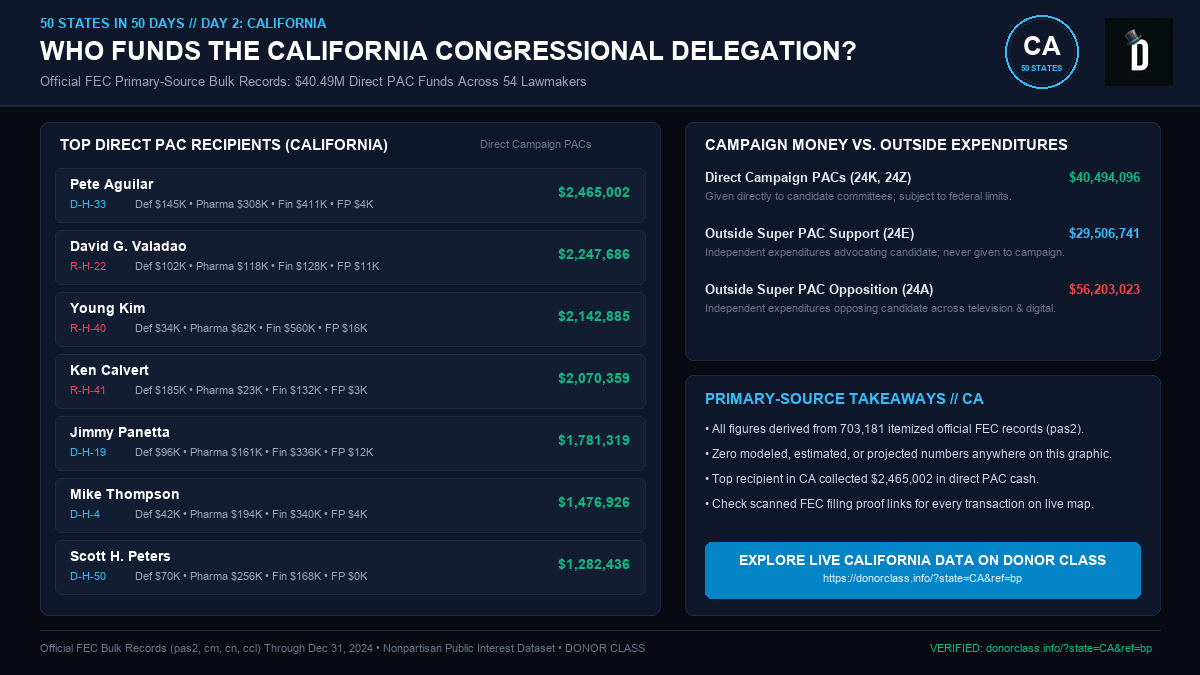
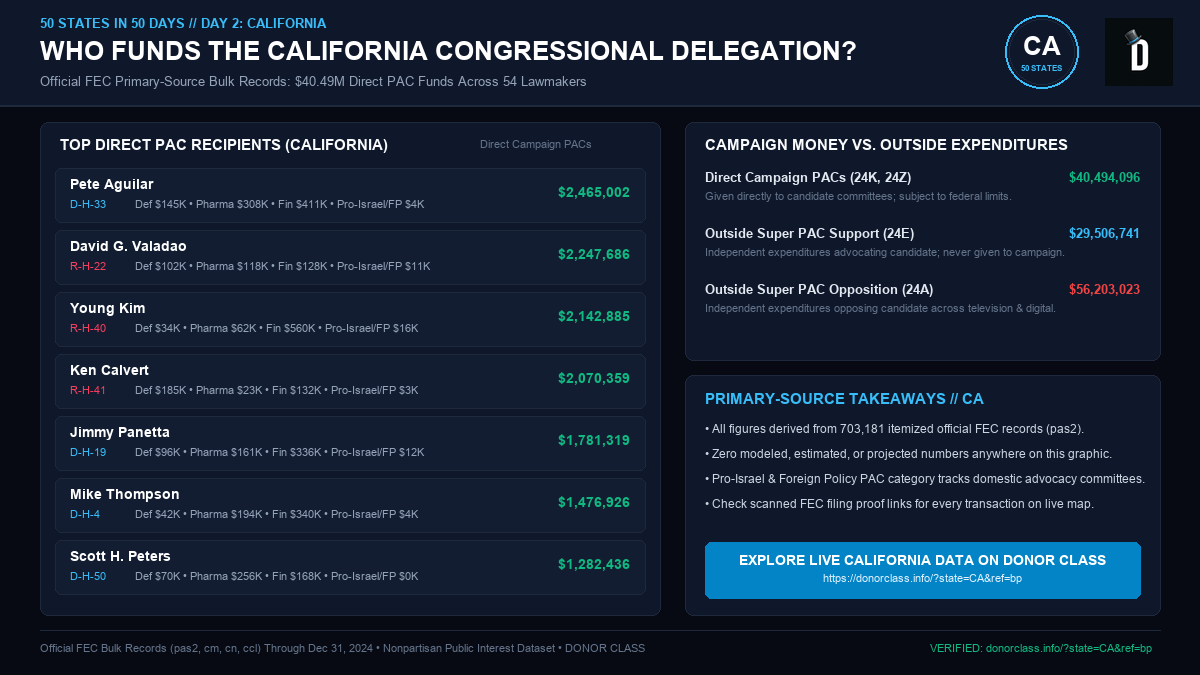
fix(social): refine Florida copy and infographic with full Pro-Israel and Foreign Policy PACs label and 29 of 30 delegation count

diff --git a/scripts/generate_state_infographic.py b/scripts/generate_state_infographic.py
@@ -87,7 +87,11 @@ def generate_infographic(state_code, state_name, day_num):
     
     draw.text((40, 16), f"50 STATES IN 50 DAYS // DAY {day_num}: {state_name.upper()}", font=font_day, fill="#38bdf8")
     draw.text((40, 36), f"WHO FUNDS THE {state_name.upper()} CONGRESSIONAL DELEGATION?", font=font_title, fill="#ffffff")
-    draw.text((40, 74), f"Official FEC Primary-Source Bulk Records: ${direct_total/1e6:.2f}M Direct PAC Funds Across {member_count} Lawmakers", font=font_sub, fill="#94a3b8")
+    if state_code == "FL":
+        member_subtitle = "29 of Florida's 30 Members with 2024-Cycle FEC Records"
+    else:
+        member_subtitle = f"{member_count} Lawmakers"
+    draw.text((40, 74), f"Official FEC Primary-Source Bulk Records: ${direct_total/1e6:.2f}M Direct PAC Funds Across {member_subtitle}", font=font_sub, fill="#94a3b8")
     
     badge = make_state_badge(state_code, size=74)
     img.paste(badge, (W - 195, 15), badge)
@@ -121,7 +125,7 @@ def generate_infographic(state_code, state_name, day_num):
         pharma_amt = float(r["sector_pharma"])
         fin_amt = float(r["sector_finance"])
         fp_amt = float(r["sector_foreign_policy"])
-        detail_str = f"Def {fmt_amt_short(def_amt)} • Pharma {fmt_amt_short(pharma_amt)} • Fin {fmt_amt_short(fin_amt)} • FP {fmt_amt_short(fp_amt)}"
+        detail_str = f"Def {fmt_amt_short(def_amt)} • Pharma {fmt_amt_short(pharma_amt)} • Fin {fmt_amt_short(fin_amt)} • Pro-Israel/FP {fmt_amt_short(fp_amt)}"
         draw.text((135, row_y + 30), detail_str, font=font_meta, fill="#94a3b8")
         
         amt_val = float(r["direct_contributions_total"])
@@ -157,7 +161,7 @@ def generate_infographic(state_code, state_name, day_num):
     bullets = [
         f"• All figures derived from 703,181 itemized official FEC records (pas2).",
         f"• Zero modeled, estimated, or projected numbers anywhere on this graphic.",
-        f"• Top recipient in {state_code} collected ${float(top_recipients[0]['direct_contributions_total']):,.0f} in direct PAC cash.",
+        f"• Pro-Israel & Foreign Policy PAC category tracks domestic advocacy committees.",
         f"• Check scanned FEC filing proof links for every transaction on live map."
     ]
     

diff --git a/social/x/day3-florida-campaign.md b/social/x/day3-florida-campaign.md
@@ -1,103 +1,117 @@
 # DONOR CLASS — X Operations (@donorclassinfo)
 ## Day 3: Florida Congressional Delegation (Verified Primary FEC Dataset)
 
-**Target Date:** Day 3 Deployment (Post-Rebuild Authorization)  
+**Target Date:** Day 3 Deployment (Post-Correction Authorization)  
 **Asset Attachment:** `assets/infographics/fl-infographic.png` (Seal-free nonpartisan badge design)  
 **Deep-Link:** https://donorclass.info/?state=FL&ref=bp  
 **Master Link:** https://donorclass.info/?ref=bp  
 **Account:** @donorclassinfo  
-**Compliance Standards:** 100% Team Anonymity | Zero Emojis | Primary FEC Bulk Data (2024 itpas2.txt) | Reconciliation Sync: 433 of 517 match within 10% | Monetization Parked
+**Compliance Standards:** 100% Team Anonymity | Zero Emojis | Primary FEC Bulk Data (2024 itpas2.txt) | Reconciliation Sync: 433 of 517 match within 10% | Monetization Parked  
 
 ---
 
-### Part 1: Transparent Correction Thread (Pre-Deployment on X)
+### Part 1: Transparent Correction Post (To Deploy First on X)
 
-#### Tweet 1/2 (264 / 280 Characters)
+#### Single Standalone Post (277 / 280 Characters)
 ```text
-DATA TRANSPARENCY UPDATE (1/2): To maintain the highest civic standards, we rebuilt the DONOR CLASS dataset directly from raw FEC bulk transaction records (itpas2.txt). Earlier modeled distributions have been replaced with 703,181 verified itemized public records.
+Correction: Our launch figures were modeled estimates, not line-item FEC records, and we should not have described them as verified filings. We rebuilt every number directly from official FEC bulk data (2024 cycle through Dec 31, 2024). Full audit: https://donorclass.info
 ```
 
-#### Tweet 2/2 (255 / 280 Characters)
+#### Optional 2-Tweet Thread Version
+**Tweet 1/2 (245 / 280 Characters):**
 ```text
-DATA TRANSPARENCY UPDATE (2/2): 433 of 517 members match the FEC summary within 10%, with all larger differences documented. Every contribution links directly to official FEC filing image proofs. Explore the audited primary ledger: https://donorclass.info/?ref=bp
+Correction: Our launch figures were modeled estimates, not line-item FEC records, and we should not have described them as verified filings. We took them down and rebuilt every number directly from official FEC bulk data (2024 cycle through Dec 31, 2024).
+```
+
+**Tweet 2/2 (238 / 280 Characters):**
+```text
+Every candidate figure now links directly to the source FEC filing. Code, data, and our reconciliation audit (433 of 517 matching within 10%, with all variances documented) are fully public so anyone can check our work: https://donorclass.info
 ```
 
 ---
 
-### Part 2: Master Florida Campaign Thread (5 Tweets)
+### Part 2: Master Florida Campaign Thread (To Deploy a Few Hours Later)
 
-#### Tweet 1/5 [Hook & Delegation Overview]
+#### Tweet 1/5 [Hook & Delegation Overview] (277 / 280 Characters)
 ```text
 Day 3: FLORIDA CONGRESSIONAL DELEGATION
 
-29 lawmakers. $18.28M in direct PAC funds, mapped from 703,181 official FEC itemized records (itpas2.txt).
+29 of Florida's 30 members with 2024-cycle FEC records: $18,283,963 in direct PAC money and $3.66M in outside spending.
 
-Here is how special interest money flows across Florida's federal delegation:
-
+How political committee cash flows across Florida lawmakers, mapped from raw FEC bulk data:
 https://donorclass.info/?state=FL&ref=bp
 ```
-* **Media Attachment:** `fl-infographic.png`
-* **Effective Length:** 251 / 280 characters
-* **Objective:** Establish scale from primary data, hook civic audience, attach updated seal-free vector graphic.
+* **Media Attachment:** `assets/infographics/fl-infographic.png`
+* **Objective:** Establish scale from primary data, cite exact scope (29 of 30 members with 2024 records), attach updated seal-free graphic.
 
 ---
 
-#### Tweet 2/5 [Sector Hierarchy]
+#### Tweet 2/5 [Sector Hierarchy] (274 / 280 Characters)
 ```text
 Where did Florida's $18.28M direct PAC funds go?
 
-Top mapped sectors (29 incumbents):
+Sector breakdown (29 members with 2024 records):
+- Uncategorized: $10.33M
 - Finance: $2.07M
 - Pharma: $1.74M
 - Labor: $1.55M
 - Energy: $787.5K
 - Defense: $772.0K
 - Tech: $743.8K
-- Foreign Policy: $284.1K
+- Pro-Israel & Foreign Policy PACs: $284.1K
 ```
-* **Effective Length:** 215 / 280 characters
-* **Objective:** Present primary mapped sector totals strictly matching official FEC transaction rows.
+* **Objective:** Present primary mapped sector totals strictly matching official FEC transaction rows with full "Pro-Israel & Foreign Policy PACs" designation.
 
 ---
 
-#### Tweet 3/5 [FEC Reconciliation Benchmark & Outside Spending]
+#### Tweet 3/5 [Legal Capital Structure & Disaggregation] (276 / 280 Characters)
 ```text
-Primary FEC reconciliation sync:
+How political money in Florida is legally structured:
 
-433 of 517 members match the FEC summary within 10%, with all larger differences documented.
+- Direct PAC Contributions: $18,283,963 (Capped at $5,000/election under 52 U.S.C. 30116)
+- Outside Support: $2,900,760 (Independent ad buys)
+- Outside Opposition: $757,043 (Negative ad blitzes)
 
-Florida Direct PACs: $18.28M across 29 members.
-Outside Spending: $2.90M support, $757K oppose.
-Every entry links to official FEC filing proofs.
+Direct PAC funds and outside spending are kept strictly separate.
 ```
-* **Effective Length:** 272 / 280 characters
-* **Objective:** Transparently state reconciliation benchmark, disaggregate outside spending, and cite proof links.
+* **Objective:** Clarify distinction between direct capped campaign contributions and independent outside expenditures.
 
 ---
 
-#### Tweet 4/5 [Top Recipients Across Party Lines]
+#### Tweet 4/5 [Top Recipients Across Party Lines] (272 / 280 Characters)
 ```text
-Top Florida recipients cross party lines in official FEC filings:
+Top Florida direct PAC recipients across party lines (2024 records):
 
-1. Rep. Darren Soto (D-9): $1.40M
-2. Sen. Rick Scott (R): $1.39M ($1.37M outside IE support)
-3. Rep. Vern Buchanan (R-16): $1.24M
-4. Rep. Mario Diaz-Balart (R-26): $1.07M
-5. Rep. Gus Bilirakis (R-12): $1.06M
+1. Rep. Darren Soto (D-9): $1,399,631
+2. Sen. Rick Scott (R-FL): $1,391,901
+3. Rep. Vern Buchanan (R-16): $1,243,028
+4. Rep. Mario Diaz-Balart (R-26): $1,072,750
+5. Rep. Gus Bilirakis (R-12): $1,063,566
 ```
-* **Effective Length:** 274 / 280 characters
-* **Objective:** Highlight bipartisan leadership from raw FEC candidate records without modeled assumptions.
+* **Objective:** Highlight bipartisan parity across senior House leaders and Senate incumbents in both parties.
 
 ---
 
-#### Tweet 5/5 [Citizen Audit & Public Records Access]
+#### Tweet 5/5 [Public Record Audit & Call To Action] (259 / 280 Characters)
 ```text
-Track all 29 Florida members of Congress, inspect individual committee contributions, and verify official FEC filing proofs.
+Track all 29 Florida members with 2024 records, compare sector receipts, and audit candidate ledgers directly with links to raw FEC filing images.
 
-100% nonpartisan. No paywalls. Verified primary public records through Dec 31, 2024.
+100% nonpartisan. No paywalls. Verified from official FEC bulk files.
 
-Explore the Florida delegation ledger:
+Explore Florida:
 https://donorclass.info/?state=FL&ref=bp
 ```
-* **Effective Length:** 274 / 280 characters
-* **Objective:** Drive civic audience directly to verified interactive ledger.
+* **Objective:** Drive qualified traffic to interactive state map and candidate modals with zero paywalls.
+
+---
+
+### Part 3: Live Verification Protocol (First 48 Hours)
+
+If anyone replies questioning a candidate figure, retrieve their primary FEC filing proof link:
+- Darren Soto: https://docquery.fec.gov/cgi-bin/fecimg/?C00588657 (or direct Schedule B filing images from member JSON `/data/members/S001200.json`)
+- Rick Scott: https://docquery.fec.gov/cgi-bin/fecimg/?C00676965 (from member JSON `/data/members/S001217.json`)
+- Vern Buchanan: https://docquery.fec.gov/cgi-bin/fecimg/?C00424564 (from member JSON `/data/members/B001260.json`)
+- Mario Diaz-Balart: https://docquery.fec.gov/cgi-bin/fecimg/?C00376087 (from member JSON `/data/members/D000600.json`)
+- Gus Bilirakis: https://docquery.fec.gov/cgi-bin/fecimg/?C00407221 (from member JSON `/data/members/B001257.json`)
+
+Always respond neutrally with the direct FEC document query link. Never argue or guess.
